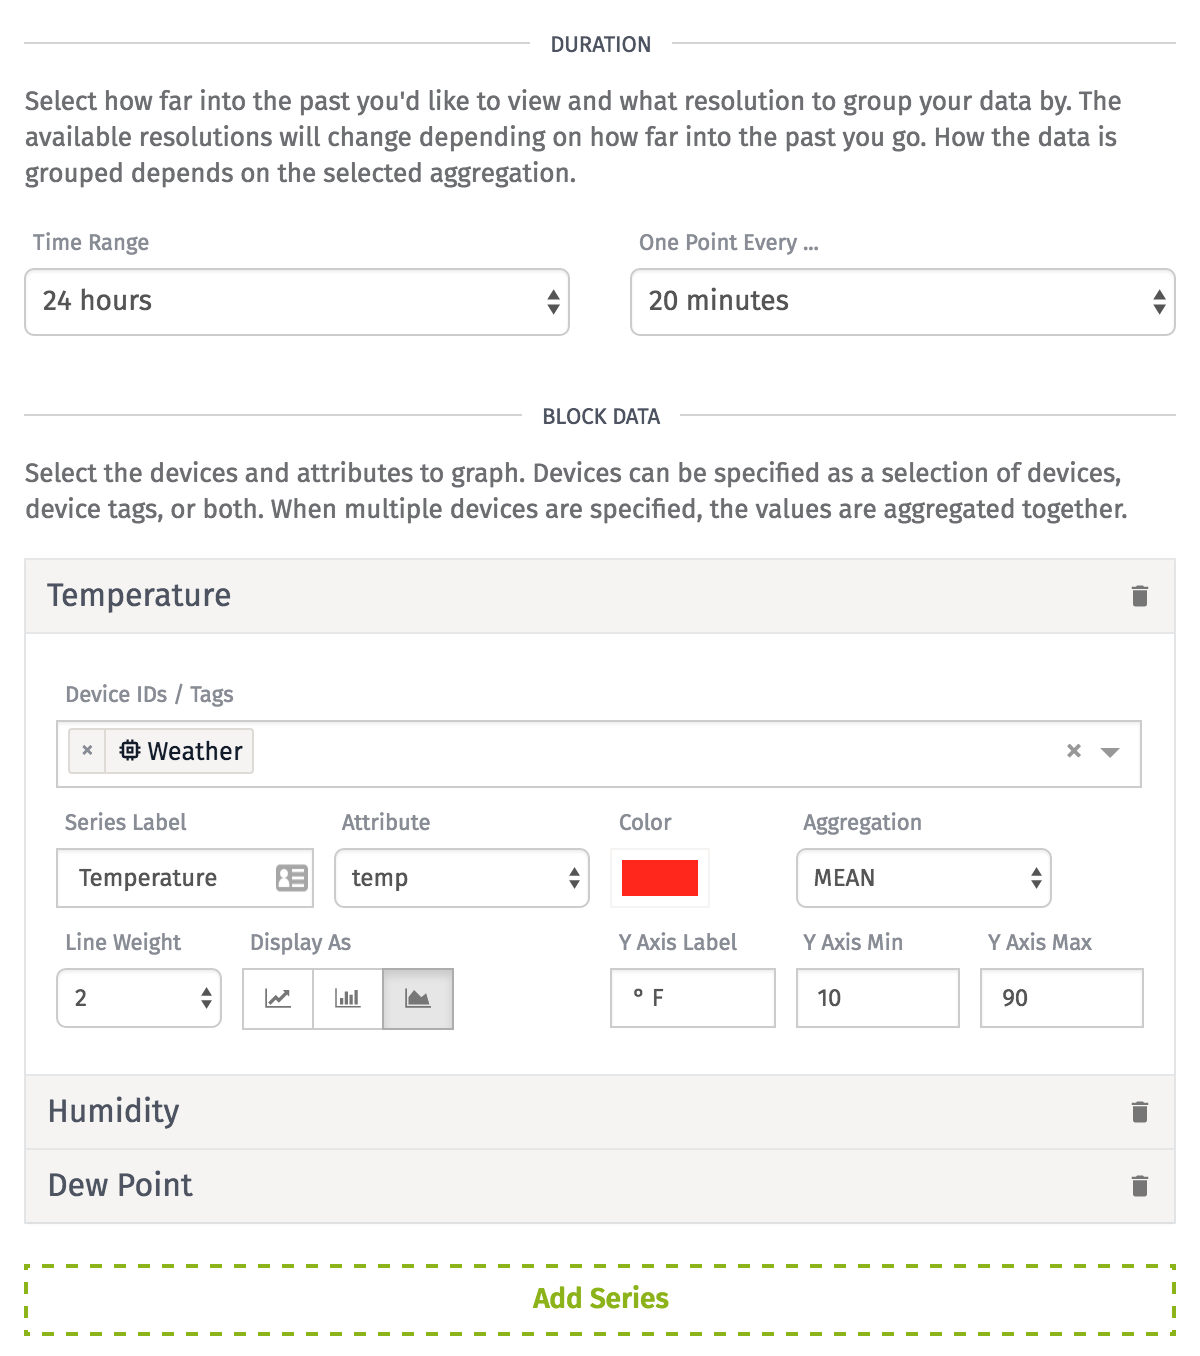
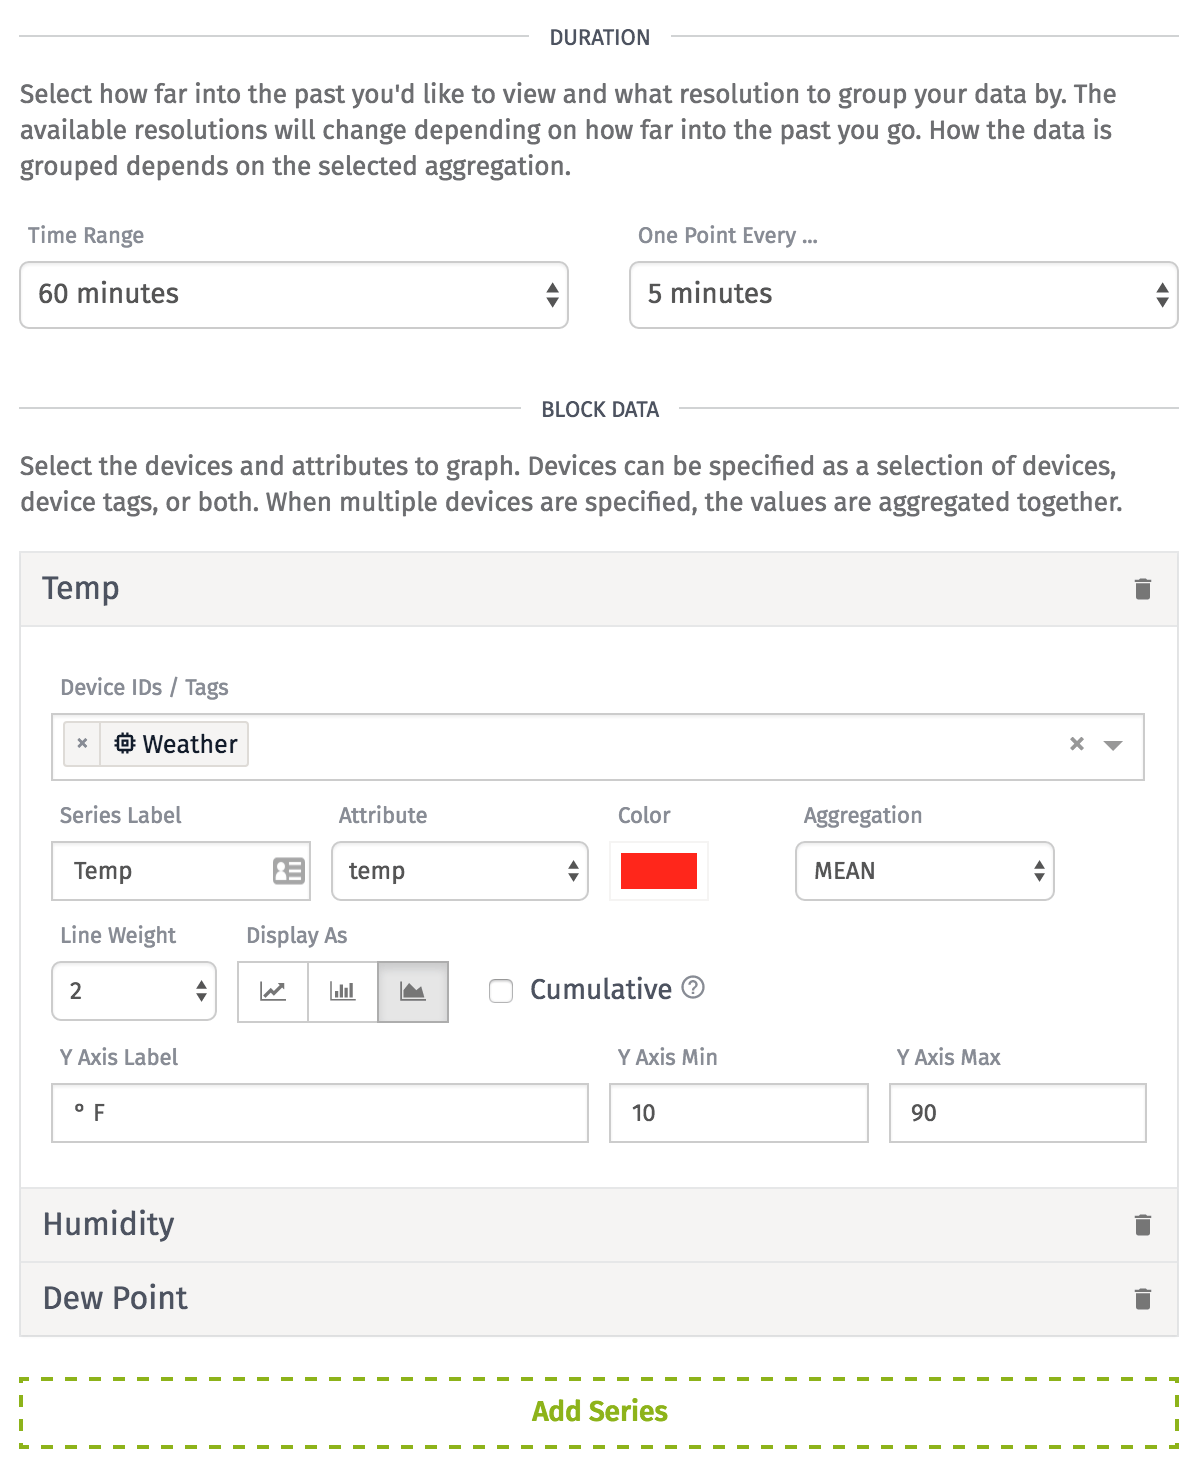
cumulative line docs

diff --git a/docs/dashboards/time-series-graph.md b/docs/dashboards/time-series-graph.md
@@ -32,6 +32,8 @@ When this is graphed, it is now a single series that contains the average of the
 
 Each series may be displayed as a line graph, a bar graph or an area chart, and each series also displays in a separate color. Line graphs and area charts also allow for configuring the weight of the line representing their data.
 
+You also have the option of displaying each series as <a href="https://www.mathsisfun.com/data/cumulative-tables-graphs.html" target="\_blank">cumulative</a>, meaning that the point graphed at any given time is the sum of that point plus all previous points.
+
 Hovering your mouse over the graph will display a tooltip, which shows the value of each series at that moment in time. Move your mouse left or right to view graph data back or forward in time respectively.
 
 The minimum and/or maximum y-axis values may be manually set for each data series. If no values are set for the axis, the graph will default to a reasonable minimum and maximum for ALL series that are not given a custom axis. If a min and/or max is defined, and if at any point the graph extends beyond the defined minimum or maximum value, the graph will disappear off the edge of the block until the data returns to the defined window.
